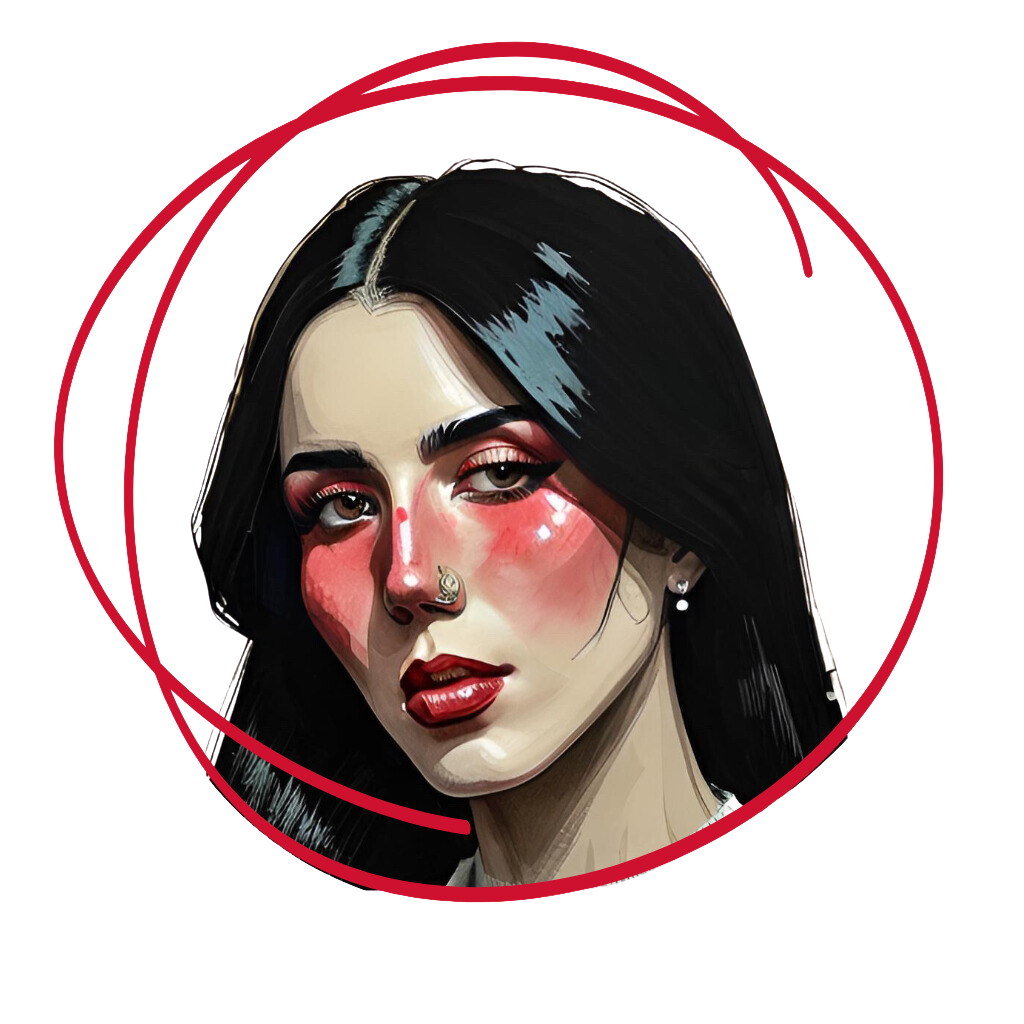
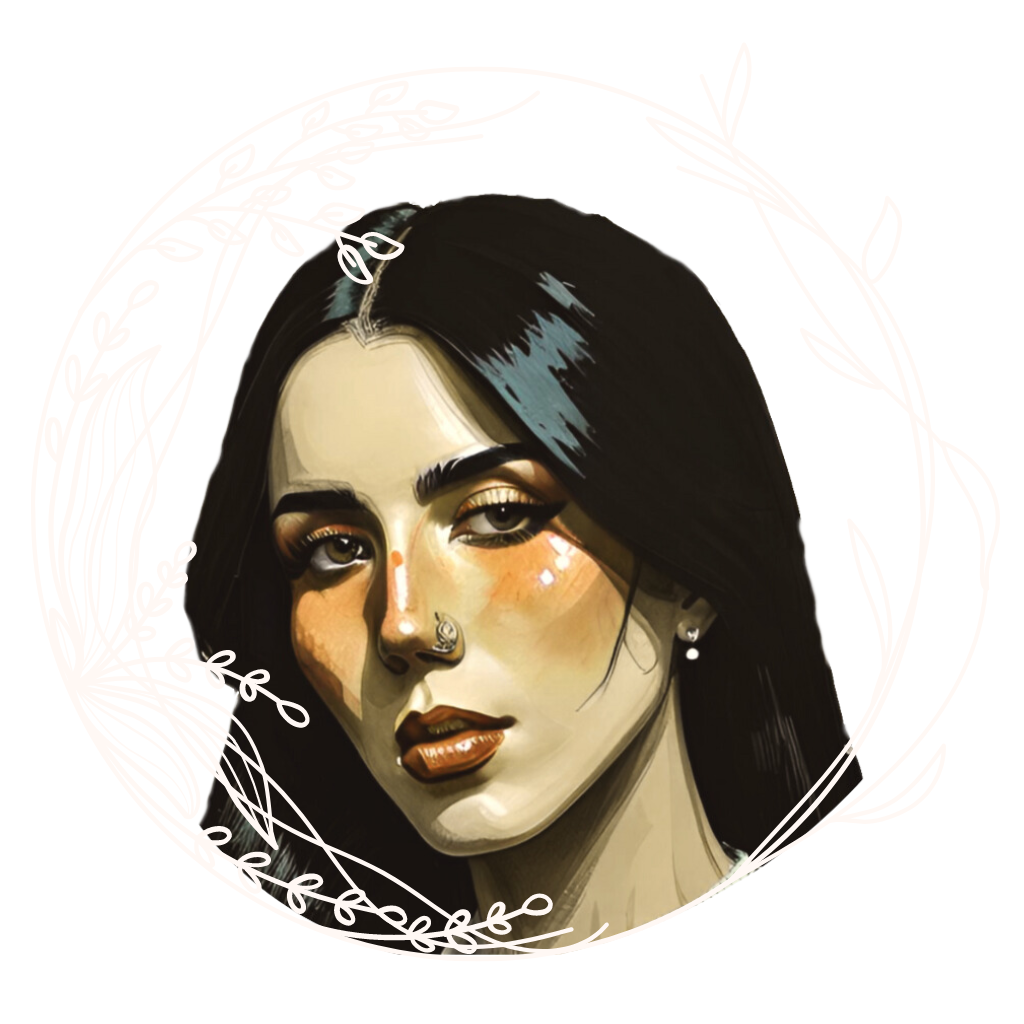
style change

diff --git a/src/components/Banner/ProfHeader.jsx b/src/components/Banner/ProfHeader.jsx
@@ -67,9 +67,9 @@ h4 {
 }
 h1 {
     font-size: 3rem;
-    
+    color: var(--white);
     font-family: 'Goudy Bookletter 1911', serif;
-    font-weight: 300;
+    font-weight: 800;
     letter-spacing: 0.2rem;
     text-transform: uppercase;
     padding-bottom: .2rem;
@@ -80,66 +80,80 @@ h3 {
     padding-bottom: 1.2rem;
     text-transform: uppercase;
     font-family: 'Josefin Slab', serif;
+    color: rgba(255, 248, 244, 0.6);
     }
     p {
         font-size: 1.2rem;
-        font-weight: 500;
+        font-weight: 200;
         font-family: 'Josefin Slab', serif;
+        color: rgba(255, 248, 244, 0.9);
+        
     }
     button {
+        background: none;
+        border: 1px solid var(--white);
         padding: 0.7rem 1.4rem;
         margin-top: 2rem;
         cursor: pointer;
         font-weight: 600;
-        filter: drop-shadow(0px 8px 8px #ce112e);
+        filter: drop-shadow(0px 8px 8px #13262a);
+        color: var(--white);
         font-family: 'Josefin Slab', serif;
+        letter-spacing: 0.2rem;
         font-size: .8rem;
         text-transform: uppercase;
         :hover {
-            filter: drop-shadow(0px 8px 8px #010200);
+            background-color: rgba(255, 248, 244, 0.2);
         }
         `;
-const Social = styled.div`
-margin-top: 2rem;
-display: flex;
-align-items: center;
-gap: 1rem;
-.social-icons {
-    display: flex;
-    align-items: center;
-    gap: 1rem;
-    span {
-        width: 2.3rem;
-        height: 2rem;
+        const Social = styled.div`
+        margin-top: 2rem;
         display: flex;
-        clip-path: circle(50% at 50% 50%);
-        background-color: #ce112e;
-        position: relative;
-        transition: transform 400ms ease-in-out;
-        :hover {
-            transform: rotate(360deg);
-         }
-         }
-         p {
-            font-size: 0.9rem;
-    @media (max-width: 690px) {
-      font-size: 0.7rem;
-    }
-            
-         }
-         a {
+        align-items: center;
+        gap: 1rem;
+        
+        .social-icons {
+          display: flex;
+          align-items: center;
+          gap: 1rem;
+          
+          span {
+            width: 2.5rem;
+            height: 2.5rem;
+            display: flex;
             color: var(--background);
+            background-color: transparent; 
+            border: 1px solid var(--white); 
+            border-radius: 50%; 
+            position: relative;
+            transition: transform 400ms ease-in-out, background-color 400ms ease-in-out;
+            
+            :hover {
+              background-color: rgba(255, 248, 244, 0.2); 
+            }
+          }
+          
+          p {
+            font-size: 0.9rem;
+            @media (max-width: 690px) {
+              font-size: 0.7rem;
+            }
+          }
+          
+          a {
+            color: var(--white);
             top: 55%;
             left: 50%;
             position: absolute;
             transform: translate(-50%, -50%); 
             font-size: 1.2rem;
-            }
-            }`;
+          }
+        }
+      `;
 const Profile = styled.div`
 img {
     width: 25rem;
-    filter: drop-shadow(0px 8px 8px #ce112e);
+    filter: drop-shadow(0px 8px 8px var(--dark));
     transition: transform 400ms ease-in-out;
     @media (max-width: 790px) {
         width: 20rem;

diff --git a/src/components/Banner/Header.jsx b/src/components/Banner/Header.jsx
@@ -1,13 +1,13 @@
 import React, { useState } from 'react';
 import styled from 'styled-components';
-import { GiPaintBrush } from 'react-icons/gi';
+import { TfiHeart } from 'react-icons/tfi';
 
 const Header = () => {
     const [bar, setBar] = useState(false);
     return (
         <Container bar={bar}>
             <Logo>
-                <span className="black"><GiPaintBrush /></span>
+                <span className="black"><TfiHeart/></span>
                 <h1>portfolio</h1>
             </Logo>
             <Nav bar={bar}>
@@ -55,13 +55,13 @@ const Container = styled.div`
                     position: absolute;
                     width: 100%;
                     height: 2px;
-                    background-color: ${props => props.bar ? "transparent" : "var(--black)"};
+                    background-color: ${props => props.bar ? "transparent" : "var(--white)"};
                     transition: background-color 400ms ease-in-out;
                     :before, :after {
                         content: "";
                         height: 2px;
                         width: 100%;
-                        background-color: var(--black);
+                        background-color: var(--white);
                         position: absolute;
 
                     }
@@ -87,9 +87,9 @@ const Logo = styled.div`
         font-size: 2rem;
         }
         h1 {
-            font-size: 2rem;
+            font-size: 1.5rem;
             font-weight: 200;
-            font-family: 'Just Me Again Down Here';
+            font-family: 'Josefin Slab', serif;
             text-transform: uppercase;`
 
 const Nav = styled.div`
@@ -111,7 +111,7 @@ const Nav = styled.div`
 span {
     margin-left: 1rem;
     a {
-        color: var(--black);
+        color: var(--white);
         text-decoration: none;
         font-family: 'Just Me Again Down Here', cursive;
         font-size: 1.4rem;
@@ -124,7 +124,7 @@ span {
             right: 0;
             bottom: -2px;
             height: 2px;
-            background-color: var(--red);
+            background-color: var(--white);
             transform: scaleX(0);
             transform-origin: right;
             transition: transform 400ms ease-in-out;

diff --git a/src/index.css b/src/index.css
@@ -10,10 +10,11 @@
 }
 
 :root{
-  --background: #dcddd8;
-  --dark: #b4b4b0;
-  --red: #ce112e;
-  --black: #010200;
+  --background: #718385;
+  --dark: #13262a;
+  --orange: #945632;
+  --white: #FFF8F4;
+  --green: #5b5d30;
   --hand: font-family: 'Just Me Again Down Here', cursive;
   --thin: font-family: 'Josefin Slab', serif;
   --funky: font-family: 'Goudy Bookletter 1911', serif;
@@ -21,16 +22,16 @@
 body{
   width: 100%;
   background-color: var(--background);
-  color: var(--black);
+  color: var(--white);
   overflow-x: hidden;
   position: relative;
 }
 
 .black{
-  color: var(--black);
+  color: var(--white);
 }
 .red{
-  color: var(--red);
+  color: var(--orange);
 }
 
 .slick-list, .slick-slider, .slick-track{

diff --git a/src/App.js b/src/App.js
@@ -24,12 +24,16 @@ function App() {
 export default App;
 const Container = styled.div``;
 const Banner = styled.div`
-background: var(--background);
+background: 
+url('/assets/field.png');
+background-size: cover;
+background-position: center;
 height: 100vh;
-  @media (max-width: 640px) {
-    height: 100%;
-    padding-bottom: 2rem;
-  }`;
+@media (max-width: 640px) {
+height: 100%;
+padding-bottom: 2rem;
+}
+`;
 
   const ChangeColor = styled.div`
   background: var(--dark);

diff --git a/src/components/about-me/about.jsx b/src/components/about-me/about.jsx
@@ -49,7 +49,7 @@ const Container = styled.div`
     }
     h1 {
         font-size: 3rem;
-    color: var(--red);
+    color: var(--orange);
     font-family: 'Goudy Bookletter 1911', serif;
     font-weight: 300;
     letter-spacing: 0.2rem;

diff --git a/src/components/Portfolio/Project.jsx b/src/components/Portfolio/Project.jsx
@@ -52,7 +52,7 @@ img{
         width: 90%;
         a{
             margin-left: 0.5rem;
-            color: var(--red);
+            color: var(--orange);
         }
     }
 }
